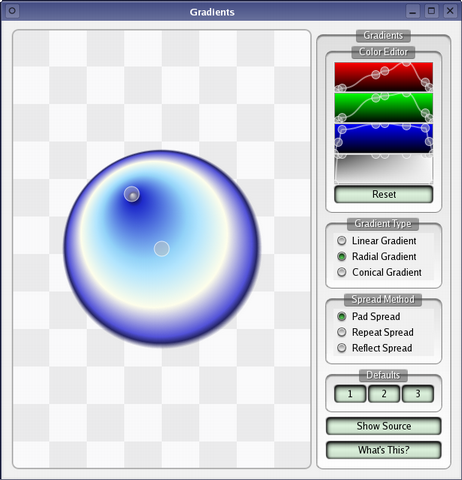
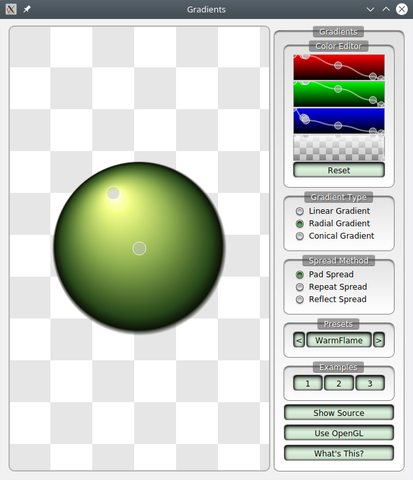
Add demo of the new QGradient presets to the gradients example
In the gradients example, allow the user to select and show
QGradient's named presets.

diff --git a/qtbase/examples/widgets/painting/gradients/gradients.html b/qtbase/examples/widgets/painting/gradients/gradients.html
@@ -24,8 +24,12 @@ green and blue components while the last defines the alpha of the
 gradient. You can move points, and add new ones, by clicking with the left
 mouse button, and remove points by clicking with the right button.</p>
 
-<p>There are three default configurations available at the bottom of
+<p>There are three example configurations available at the bottom of
 the page that are provided as suggestions on how a color table could be
 configured.</p>
+
+<p>Qt also provides a suite of named gradient presets. They are based on the
+free WebGradients collection. Click on the name in the Presets box to show the
+gradient. Use the arrow buttons to browse through the available presets.</p>
 
 </html>

diff --git a/qtbase/examples/widgets/painting/gradients/gradients.cpp b/qtbase/examples/widgets/painting/gradients/gradients.cpp
@@ -301,8 +301,15 @@ GradientWidget::GradientWidget(QWidget *parent)
     m_reflectSpreadButton = new QRadioButton(tr("Reflect Spread"), spreadGroup);
     m_repeatSpreadButton = new QRadioButton(tr("Repeat Spread"), spreadGroup);
 
+    QGroupBox *presetsGroup = new QGroupBox(mainGroup);
+    presetsGroup->setTitle(tr("Presets"));
+    QPushButton *prevPresetButton = new QPushButton(tr("<"), presetsGroup);
+    m_presetButton = new QPushButton(tr("(unset)"), presetsGroup);
+    QPushButton *nextPresetButton = new QPushButton(tr(">"), presetsGroup);
+    updatePresetName();
+
     QGroupBox *defaultsGroup = new QGroupBox(mainGroup);
-    defaultsGroup->setTitle(tr("Defaults"));
+    defaultsGroup->setTitle(tr("Examples"));
     QPushButton *default1Button = new QPushButton(tr("1"), defaultsGroup);
     QPushButton *default2Button = new QPushButton(tr("2"), defaultsGroup);
     QPushButton *default3Button = new QPushButton(tr("3"), defaultsGroup);
@@ -327,11 +334,12 @@ GradientWidget::GradientWidget(QWidget *parent)
     mainLayout->addWidget(m_renderer);
     mainLayout->addWidget(mainGroup);
 
-    mainGroup->setFixedWidth(180);
+    mainGroup->setFixedWidth(200);
     QVBoxLayout *mainGroupLayout = new QVBoxLayout(mainGroup);
     mainGroupLayout->addWidget(editorGroup);
     mainGroupLayout->addWidget(typeGroup);
     mainGroupLayout->addWidget(spreadGroup);
+    mainGroupLayout->addWidget(presetsGroup);
     mainGroupLayout->addWidget(defaultsGroup);
     mainGroupLayout->addStretch(1);
     mainGroupLayout->addWidget(showSourceButton);
@@ -352,6 +360,11 @@ GradientWidget::GradientWidget(QWidget *parent)
     spreadGroupLayout->addWidget(m_padSpreadButton);
     spreadGroupLayout->addWidget(m_repeatSpreadButton);
     spreadGroupLayout->addWidget(m_reflectSpreadButton);
+
+    QHBoxLayout *presetsGroupLayout = new QHBoxLayout(presetsGroup);
+    presetsGroupLayout->addWidget(prevPresetButton);
+    presetsGroupLayout->addWidget(m_presetButton, 1);
+    presetsGroupLayout->addWidget(nextPresetButton);
 
     QHBoxLayout *defaultsGroupLayout = new QHBoxLayout(defaultsGroup);
     defaultsGroupLayout->addWidget(default1Button);
@@ -374,6 +387,13 @@ GradientWidget::GradientWidget(QWidget *parent)
             m_renderer, &GradientRenderer::setReflectSpread);
     connect(m_repeatSpreadButton, &QRadioButton::clicked,
             m_renderer, &GradientRenderer::setRepeatSpread);
+
+    connect(prevPresetButton, &QPushButton::clicked,
+            this, &GradientWidget::setPrevPreset);
+    connect(m_presetButton, &QPushButton::clicked,
+            this, &GradientWidget::setPreset);
+    connect(nextPresetButton, &QPushButton::clicked,
+            this, &GradientWidget::setNextPreset);
 
     connect(default1Button, &QPushButton::clicked,
             this, &GradientWidget::setDefault1);
@@ -469,6 +489,40 @@ void GradientWidget::setDefault(int config)
     m_editor->setGradientStops(stops);
     m_renderer->hoverPoints()->setPoints(pts);
     m_renderer->setGradientStops(stops);
+}
+
+void GradientWidget::updatePresetName()
+{
+    QMetaEnum presetEnum = QMetaEnum::fromType<QGradient::Preset>();
+    m_presetButton->setText(QLatin1String(presetEnum.key(m_presetIndex)));
+}
+
+void GradientWidget::changePresetBy(int indexOffset)
+{
+    QMetaEnum presetEnum = QMetaEnum::fromType<QGradient::Preset>();
+    m_presetIndex = qBound(0, m_presetIndex + indexOffset, presetEnum.keyCount() - 1);
+
+    QGradient::Preset preset = static_cast<QGradient::Preset>(presetEnum.value(m_presetIndex));
+    QGradient gradient(preset);
+    if (gradient.type() != QGradient::LinearGradient)
+        return;
+
+    QLinearGradient *linearGradientPointer = static_cast<QLinearGradient *>(&gradient);
+    QLineF objectStopsLine(linearGradientPointer->start(), linearGradientPointer->finalStop());
+    qreal scaleX = qFuzzyIsNull(objectStopsLine.dx()) ? 1.0 : (0.8 * m_renderer->width() / qAbs(objectStopsLine.dx()));
+    qreal scaleY = qFuzzyIsNull(objectStopsLine.dy()) ? 1.0 : (0.8 * m_renderer->height() / qAbs(objectStopsLine.dy()));
+    QLineF logicalStopsLine = QTransform::fromScale(scaleX, scaleY).map(objectStopsLine);
+    logicalStopsLine.translate(m_renderer->rect().center() - logicalStopsLine.center());
+    QPolygonF logicalStops;
+    logicalStops << logicalStopsLine.p1() << logicalStopsLine.p2();
+
+    m_linearButton->animateClick();
+    m_padSpreadButton->animateClick();
+    m_editor->setGradientStops(gradient.stops());
+    m_renderer->hoverPoints()->setPoints(logicalStops);
+    m_renderer->setGradientStops(gradient.stops());
+
+    updatePresetName();
 }
 
 GradientRenderer::GradientRenderer(QWidget *parent)

diff --git a/qtbase/examples/widgets/painting/gradients/gradients.h b/qtbase/examples/widgets/painting/gradients/gradients.h
@@ -164,9 +164,14 @@ public slots:
     void setDefault2() { setDefault(2); }
     void setDefault3() { setDefault(3); }
     void setDefault4() { setDefault(4); }
+    void setPreset()     { changePresetBy(0); }
+    void setPrevPreset() { changePresetBy(-1); }
+    void setNextPreset() { changePresetBy(1); }
 
 private:
     void setDefault(int i);
+    void updatePresetName();
+    void changePresetBy(int indexOffset);
 
     GradientRenderer *m_renderer;
     GradientEditor *m_editor;
@@ -177,7 +182,9 @@ private:
     QRadioButton *m_padSpreadButton;
     QRadioButton *m_reflectSpreadButton;
     QRadioButton *m_repeatSpreadButton;
+    QPushButton *m_presetButton;
 
+    int m_presetIndex = 0;
 };
 
 #endif // GRADIENTS_H
